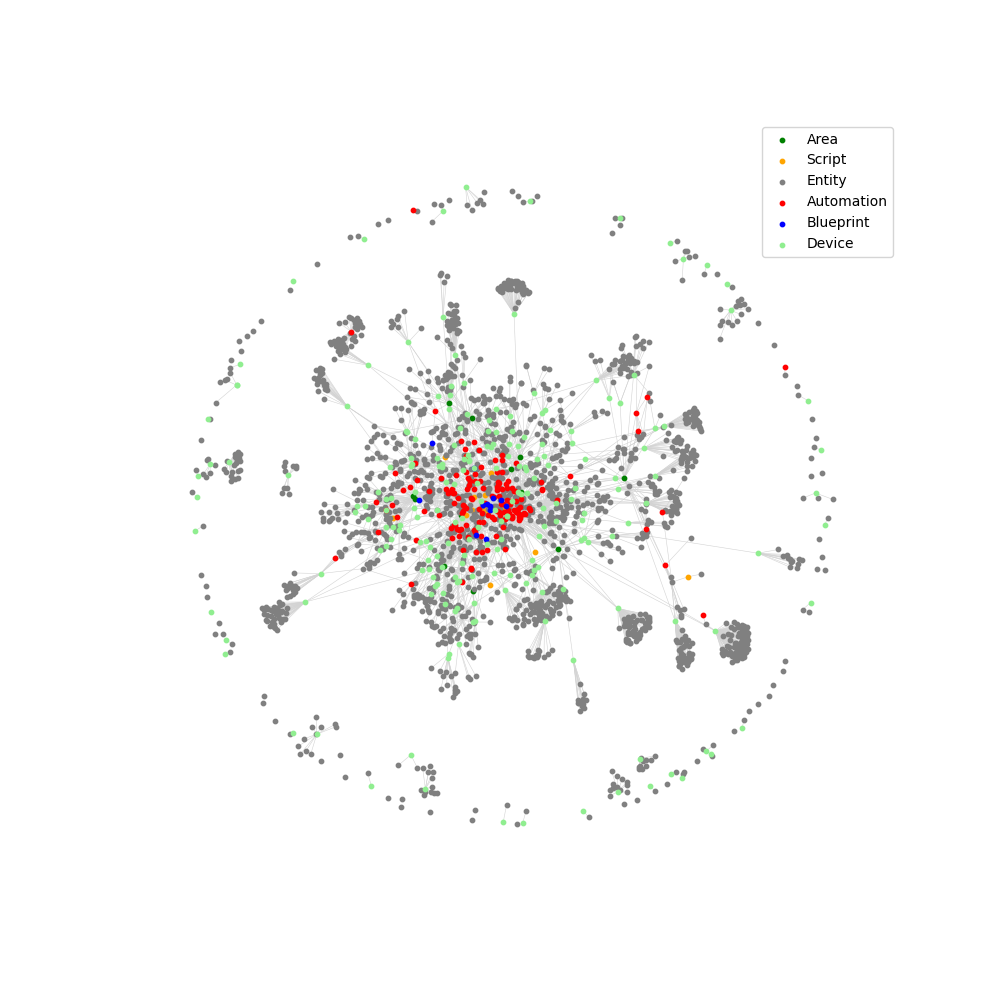
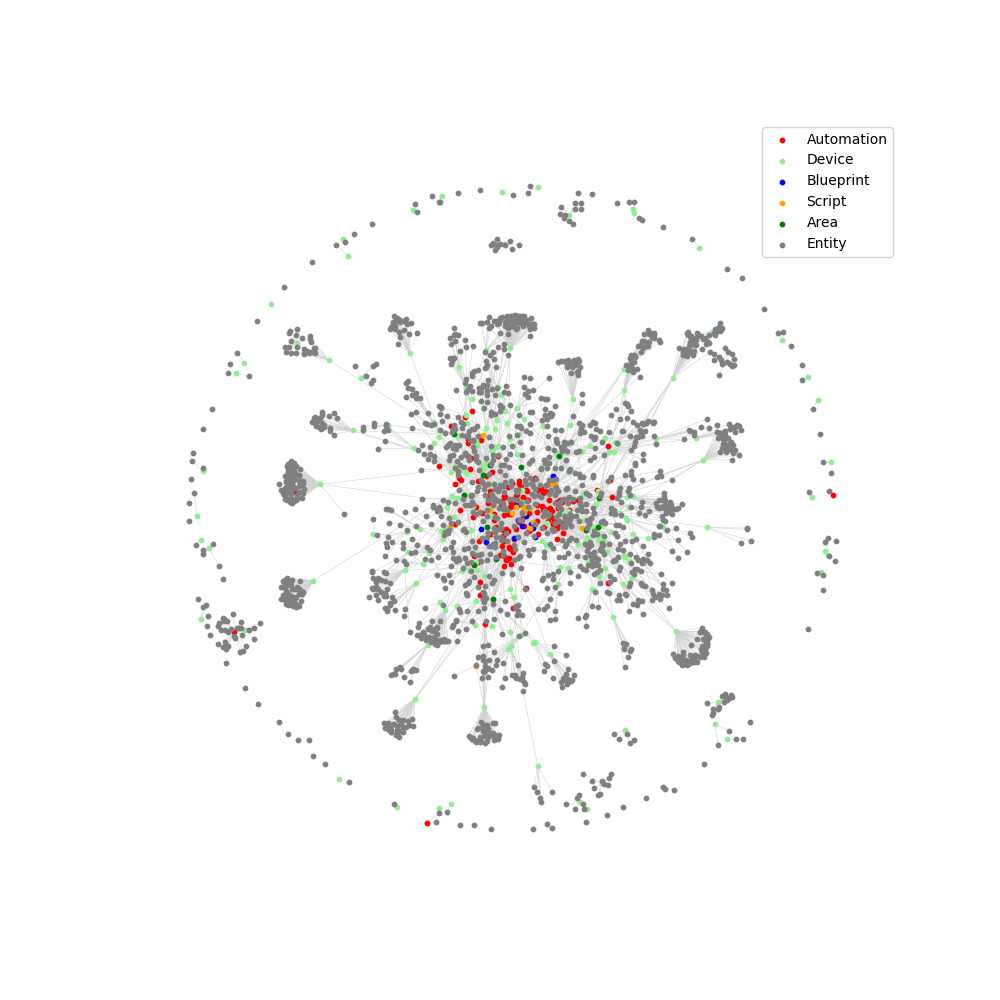
Replace water heater switch

diff --git a/README.md b/README.md
@@ -26,7 +26,7 @@ Domain | Quantity
 [`assist_satellite`](https://www.home-assistant.io/components/assist_satellite) | 2
 [`automation`](https://www.home-assistant.io/components/automation) | 149
 [`binary_sensor`](https://www.home-assistant.io/components/binary_sensor) | 183
-[`button`](https://www.home-assistant.io/components/button) | 190
+[`button`](https://www.home-assistant.io/components/button) | 191
 [`calendar`](https://www.home-assistant.io/components/calendar) | 7
 [`camera`](https://www.home-assistant.io/components/camera) | 8
 [`climate`](https://www.home-assistant.io/components/climate) | 6
@@ -43,7 +43,7 @@ Domain | Quantity
 [`input_number`](https://www.home-assistant.io/components/input_number) | 24
 [`input_select`](https://www.home-assistant.io/components/input_select) | 12
 [`input_text`](https://www.home-assistant.io/components/input_text) | 20
-[`light`](https://www.home-assistant.io/components/light) | 72
+[`light`](https://www.home-assistant.io/components/light) | 73
 [`lock`](https://www.home-assistant.io/components/lock) | 1
 [`media_player`](https://www.home-assistant.io/components/media_player) | 7
 [`notify`](https://www.home-assistant.io/components/notify) | 6
@@ -52,19 +52,19 @@ Domain | Quantity
 [`radio_frequency`](https://www.home-assistant.io/components/radio_frequency) | 3
 [`remote`](https://www.home-assistant.io/components/remote) | 3
 [`script`](https://www.home-assistant.io/components/script) | 15
-[`select`](https://www.home-assistant.io/components/select) | 68
-[`sensor`](https://www.home-assistant.io/components/sensor) | 792
+[`select`](https://www.home-assistant.io/components/select) | 70
+[`sensor`](https://www.home-assistant.io/components/sensor) | 793
 [`stt`](https://www.home-assistant.io/components/stt) | 1
 [`sun`](https://www.home-assistant.io/components/sun) | 1
-[`switch`](https://www.home-assistant.io/components/switch) | 74
+[`switch`](https://www.home-assistant.io/components/switch) | 73
 [`text`](https://www.home-assistant.io/components/text) | 33
 [`tts`](https://www.home-assistant.io/components/tts) | 1
-[`update`](https://www.home-assistant.io/components/update) | 113
+[`update`](https://www.home-assistant.io/components/update) | 114
 [`vacuum`](https://www.home-assistant.io/components/vacuum) | 1
 [`wake_word`](https://www.home-assistant.io/components/wake_word) | 1
 [`weather`](https://www.home-assistant.io/components/weather) | 1
 [`zone`](https://www.home-assistant.io/components/zone) | 16
-Total | 1969
+Total | 1974
 
 ## Core Integrations
 - [AdGuard](https://home-assistant.io/integrations/adguard)